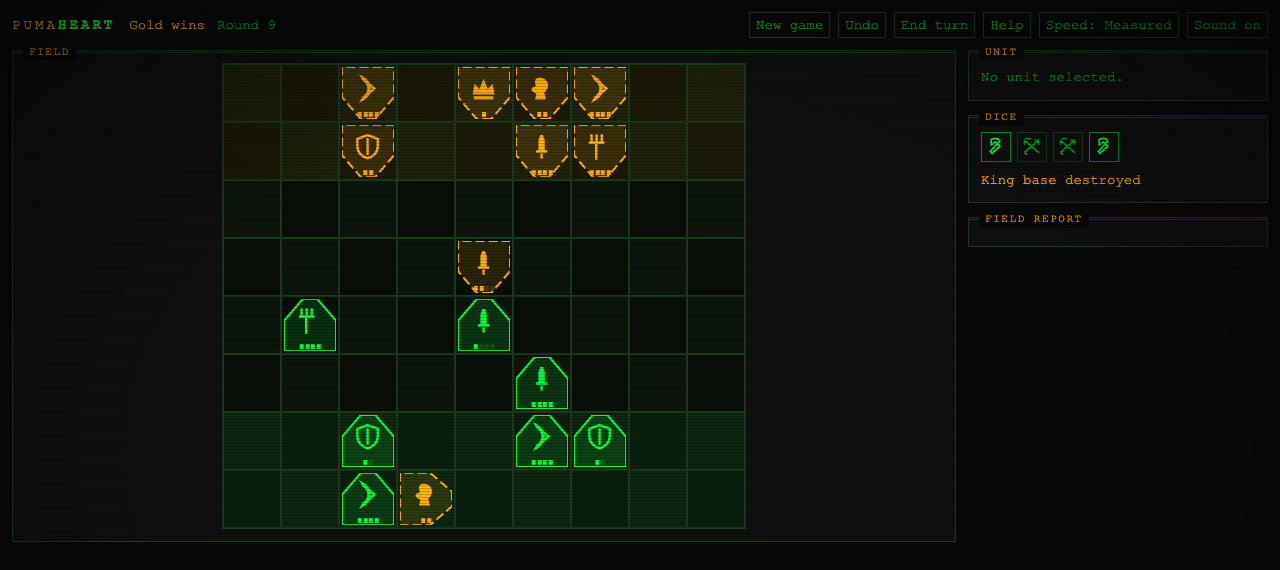
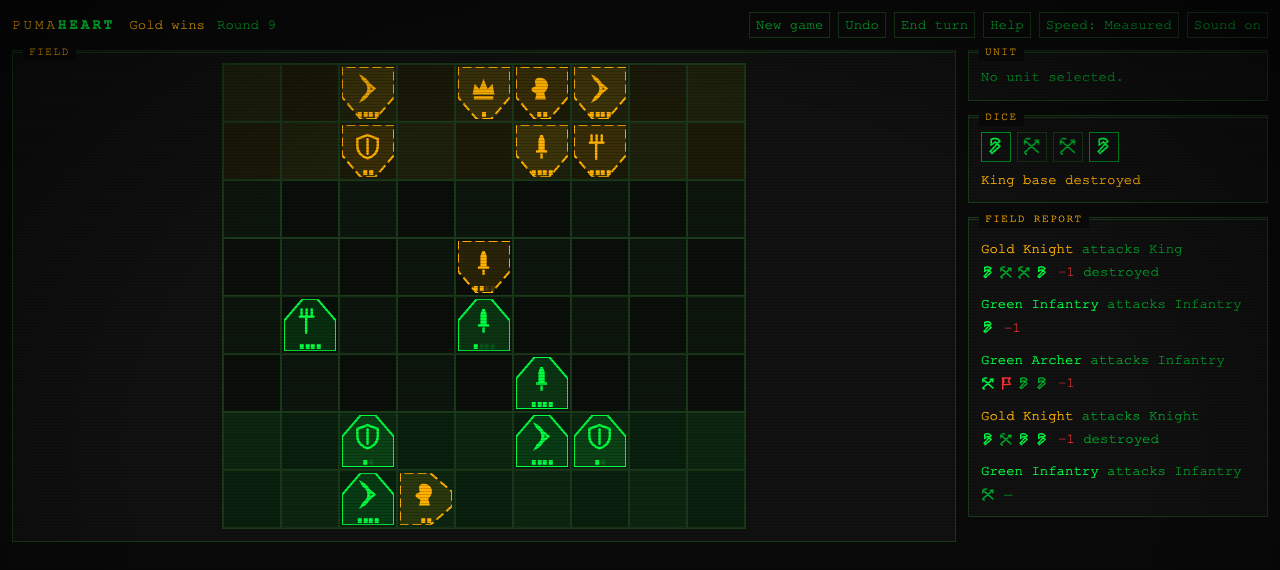
Field report: show the roll as dice, not as a list of words
An attack was the one log entry that was not a sentence -- it was a
roll -- and it was being written out as one: "arrows, battle-axe,
battle-axe, PANIC — 2 lost", both armies coloured, in a column about
thirty characters wide.

It is now the roll itself:

  Gold Knight attacks Infantry
  [axe][arrow][axe][axe]  -2 destroyed

Only the attacker carries its army. Naming the defender's side as well
was redundant twice over -- there are two armies, and the attacker's
colour already says which one is swinging. Scoring faces go green and
PANIC goes red, the same way they already do in the dice tray, so the
summary can be traced back to the dice that produced it. Red on the
count because red is the token for harm and nothing else.

The entry is stored as data rather than as marked-up text, so G.log
stays pure JSON and keeps round-tripping; it carries the sentence too,
because a screen reader cannot read a glyph, and that spoken form
still names both armies since there is no colour to tell them apart.

Two things fixed on the way:

`removed` is the uncapped floor(hits / htk), and the rules want it that
way -- four axes on a King is two hits' worth whether or not there are
two figures to take them -- but reporting it as "2 lost" off a
one-figure base was a lie that a bare "-2" makes starker. Reports now
cap at what was standing when the dice were thrown, recorded as
res.defFigs. The rules engine is untouched.

The shot harness applies actions directly, so nothing recorded the
[…]

diff --git a/index.html b/index.html
@@ -146,6 +146,20 @@ body::after {
 
 #log-list { list-style: none; margin: 0; padding: 0; max-height: 30vh; overflow-y: auto; }
 #log-list li { padding: 2px 0; border-bottom: 1px solid var(--panel-2); color: var(--text-dim); }
+/* An attack is two lines: who swung at what, then the roll and what it cost.
+   Dice at log scale carry no border -- four boxed glyphs in a narrow column
+   read as a row of buttons, and the field report is a record, not a control. */
+#log-list li.log-attack { padding: 5px 0 6px; }
+.log-who, .log-roll { margin: 0; }
+.log-roll { display: flex; align-items: center; gap: 3px; margin-top: 3px; }
+.logdie { width: 15px; height: 15px; flex: none; color: var(--text-dim); }
+.logdie svg { width: 100%; height: 100%; display: block; }
+.logdie svg path { fill: none; stroke: currentColor; stroke-width: 2.4; stroke-linecap: round; }
+.logdie.f-axe.scores, .logdie.f-arrow.scores { color: var(--green); }
+.logdie.f-panic { color: var(--red); }
+.log-sum { margin-left: 5px; white-space: nowrap; }
+.sum-bad { color: var(--red); }
+.sum-note { color: var(--text-dim); }
 
 /* ============================================================
    BOARD & UNITS
@@ -1041,6 +1055,12 @@ function needsLastManDuel(atk, def) {
 function resolveAttack(P, grid, atk, def) {
   const ad = defOf(atk);
   const res = { atkUid: atk.uid, defUid: def.uid, faces: [], hits: 0, removed: 0,
+                /* What was standing on the base when the dice were thrown.
+                   `removed` is the uncapped floor(hits / htk) and the rules
+                   want it that way -- four axes on a King is two hits' worth
+                   whether or not there are two figures to take them -- but a
+                   report saying "2 lost" off a one-figure base is a lie. */
+                defFigs: def.figs,
                 panicSteps: 0, duel: false, victimRetreat: 0, killed: false,
                 /* An ordered record of the cascade, so the presentation can
                    replay it as a chain rather than a single jump. Pure data:
@@ -1534,6 +1554,7 @@ function animate(events) {
   if (UI.reducedMotion) {
     for (const e of events) {
       if (e.type === "log") log(e.text);
+      else if (e.type === "logAttack") logAttack(e.res, e.say);
       else if (e.type === "sfx") sfx(e.name);
     }
     return NEXT;
@@ -1966,10 +1987,10 @@ function renderCurtain() {
   </div>`;
 }
 
-/* "Green Archer attacks Gold Infantry" reads far faster when the two are
-   coloured. Built from the army and unit names rather than hard-coded, so it
-   follows a rename, and applied at RENDER time -- G.log stays plain strings
-   and keeps round-tripping through JSON. */
+/* "Green Archer advances to e4" reads far faster when the army is coloured.
+   Built from the army and unit names rather than hard-coded, so it follows a
+   rename, and applied at RENDER time -- a log entry stays plain data and
+   keeps round-tripping through JSON. */
 function colourNames(escaped) {
   const armies = G.players.map(p => p.name).join("|");
   /* Longest unit name first, so "Heavy Infantry" wins over "Infantry". */
@@ -1982,15 +2003,75 @@ function colourNames(escaped) {
   });
 }
 
+/* An attack is the one entry that is not a sentence. It is a roll, and a
+   roll reads far faster as four faces than as the words "arrows, battle-axe,
+   battle-axe, PANIC" -- so it is stored as data and drawn as dice.
+
+   Only the attacker carries its army. Naming the defender's side as well was
+   redundant twice over: there are two armies, and the attacker's colour
+   already says which one is swinging. */
+function attackEntryHTML(e) {
+  const atk = byUid(G, e.atk), def = byUid(G, e.def);
+  if (!atk || !def) return esc(e.say || "");
+  /* Scoring faces go green here exactly as they do in the dice tray, so the
+     summary can be traced back to the dice that produced it. A total panic
+     scores nothing, whatever the other faces say. */
+  const hitFace = defOf(atk).hitFace;
+  const dice = e.faces.map(f => {
+    const scores = !e.panic &&
+      (hitFace === null ? (f === AXE || f === ARROW) : f === hitFace);
+    return `<span class="logdie ${DIE_CLASS[f]}${scores ? " scores" : ""}"
+      role="img" aria-label="${DIE_NAME[f]}">
+      <svg viewBox="0 0 24 24" aria-hidden="true"><path d="${DIE_GLYPH[f]}"/></svg></span>`;
+  }).join("");
+
+  /* Red is the token for harm and nothing else, so it marks the figures that
+     came off -- whichever side they came off. A Peasant can lose figures for
+     its target AND panic itself on the same roll, which is why this is built
+     from parts rather than picked from a list. */
+  const bits = [];
+  if (e.lost) bits.push(`<span class="sum-bad">\u2212${e.lost}</span>`);
+  if (e.killed) bits.push(`<span class="sum-note">destroyed</span>`);
+  if (e.panic) bits.push(`<span class="sum-bad">PANIC</span>`);
+  if (!bits.length) bits.push(`<span class="sum-note">\u2014</span>`);
+
+  return `<p class="log-who"><span class="side s${atk.side}">${esc(G.players[atk.side].name)} ${esc(defOf(atk).name)}</span>`
+       + ` <span class="dim">attacks</span> ${esc(defOf(def).name)}</p>`
+       + `<p class="log-roll">${dice}<span class="log-sum" role="img"`
+       + ` aria-label="${esc(summaryAria(e))}">${bits.join(" ")}</span></p>`;
+}
+
+function summaryAria(e) {
+  const out = [];
+  if (e.lost) out.push(`${e.lost} ${e.lost === 1 ? "figure" : "figures"} lost`);
+  if (e.killed) out.push("base destroyed");
+  if (e.panic) out.push("PANIC");
+  return out.length ? out.join(", ") : "no effect";
+}
+
 function renderLog() {
   document.getElementById("log-list").innerHTML =
-    G.log.slice(-40).reverse().map(l => `<li>${colourNames(esc(l))}</li>`).join("");
+    G.log.slice(-40).reverse().map(l =>
+      typeof l === "string" ? `<li>${colourNames(esc(l))}</li>`
+                            : `<li class="log-attack">${attackEntryHTML(l)}</li>`).join("");
 }
 
 function log(msg) {
   G.log.push(msg);
   if (G.log.length > 200) G.log.shift();
   announce(msg);
+}
+
+/* The structured entry. `say` is the same line in words, for the screen
+   reader and for any entry whose units have since left G. */
+function logAttack(res, say) {
+  G.log.push({
+    atk: res.atkUid, def: res.defUid, faces: res.faces.slice(),
+    lost: figuresLost(res), killed: !!res.killed,
+    panic: !!res.panicSteps, say: say,
+  });
+  if (G.log.length > 200) G.log.shift();
+  announce(say);
 }
 
 /* Screen-reader commentary only. Action counts and cursor feedback matter
@@ -2059,15 +2140,23 @@ function renderAs(snapshot) {
   try { updateAll(); } finally { G = live; }
 }
 
-function attackEvents(res) {
+/* The attack in words. The field report draws dice instead, but a screen
+   reader cannot read a glyph, so this is what gets announced -- and it names
+   BOTH armies, because without colour there is nothing else to tell them
+   apart. */
+function attackSentence(res) {
   const atk = byUid(G, res.atkUid), def = byUid(G, res.defUid);
   const parts = [`${G.players[atk.side].name} ${defOf(atk).name} attacks`,
                  `${G.players[def.side].name} ${defOf(def).name}`,
                  `\u2014 ${res.faces.map(f => DIE_NAME[f]).join(", ")}`];
   if (res.panicSteps && !defOf(atk).panicPerDie) parts.push("\u2014 PANIC!");
-  else if (res.removed) parts.push(`\u2014 ${res.removed} lost`);
+  else if (res.removed) parts.push(`\u2014 ${figuresLost(res)} lost`);
   else parts.push("\u2014 no effect");
+  return parts.join(" ");
+}
 
+function attackEvents(res) {
+  const atk = byUid(G, res.atkUid), def = byUid(G, res.defUid);
   /* The cut-in runs FIRST, while the board still shows the position as it was
      when the dice were thrown. Only once the outcome has been read does the
      board re-render and take the casualty off. */
@@ -2081,7 +2170,7 @@ function attackEvents(res) {
     { type: "combat", res },
     { type: "wait", delay: SETTLE_MS },
     { type: "render" },
-    { type: "log", text: parts.join(" ") });
+    { type: "logAttack", res: res, say: attackSentence(res) });
   if (res.removed) ev.push({ type: "sfx", name: res.killed ? "kill" : "hit" });
   if (res.retreats && res.retreats.length) {
     ev.push({ type: "sfx", name: "panic" });
@@ -2107,6 +2196,7 @@ function processEventQueue() {
     if (!q.length) { UI.animating = false; return; }
     const e = q.shift();
     if (e.type === "log") { log(e.text); nextEvent(); return; }
+    if (e.type === "logAttack") { logAttack(e.res, e.say); nextEvent(); return; }
     if (e.type === "sfx") { sfx(e.name); nextEvent(); return; }
     if (e.type === "combat") { showCombat(e.res, nextEvent); return; }
     /* The one render that is allowed to take the casualty off, and the only
@@ -3055,7 +3145,7 @@ function renderTray() {
   }).join("");
   const verdict = d.panicSteps && !defOf(atk).panicPerDie ? "PANIC — the unit breaks"
     : d.killed ? `${esc(defOf(def).name)} base destroyed`
-    : d.removed ? `${d.removed} ${d.removed === 1 ? "figure" : "figures"} lost`
+    : d.removed ? `${figuresLost(d)} ${figuresLost(d) === 1 ? "figure" : "figures"} lost`
     : "no effect";
   const duelNote = d.duel ? " <span class='dim'>(single figure, two hits needed)</span>" : "";
   el.innerHTML = `<div class="dice-row">${faces}</div>
@@ -3476,6 +3566,9 @@ function botStep(side, skill) {
     const g2 = buildGrid(G);
     if (!legalActions(G, g2, G.turn).some(x => sameAction(x, a))) break;
     applyAction(G, a);
+    /* The shot harness bypasses doAction, so nothing else would record the
+       fighting -- which left #shot=midgame with an empty field report. */
+    if (a.kind === "attack" && G.dice) logAttack(G.dice, attackSentence(G.dice));
     const v = checkVictory(G);
     if (v) { G.result = v; G.gameOver = true; return true; }
   }
@@ -3765,12 +3858,20 @@ function renderDeployBar() {
    is what the code did until now, removed the casualty before
    showing the roll that killed it.
    ============================================================ */
+/* Never more than were there to lose. Old saves predate defFigs, so the
+   uncapped count stands in rather than reporting zero. */
+function figuresLost(res) {
+  if (!res.removed) return 0;
+  return res.defFigs == null ? res.removed : Math.min(res.removed, res.defFigs);
+}
+
 function combatOutcome(res) {
   const atk = byUid(G, res.atkUid), def = byUid(G, res.defUid);
   const ad = defOf(atk), dd = defOf(def);
   if (res.panicSteps && !ad.panicPerDie) return { text: "PANIC — the unit breaks", tone: "bad" };
   if (res.killed) return { text: `${dd.name} base destroyed`, tone: "kill" };
-  if (res.removed) return { text: `${res.removed} ${res.removed === 1 ? "figure" : "figures"} lost`, tone: "hit" };
+  const lost = figuresLost(res);
+  if (lost) return { text: `${lost} ${lost === 1 ? "figure" : "figures"} lost`, tone: "hit" };
   return { text: "No effect", tone: "none" };
 }
 

diff --git a/README.md b/README.md
@@ -39,7 +39,8 @@ full view: the dice tumble and settle one at a time, and the outcome is withheld
 one stops, and the board keeps the defeated base until the card has cleared, so you watch it go
 rather than find it gone. When the AI attacks, the board calls the shot first — the attacker
 rings in its own colour, its reach washes in, and the base about to be hit pulses red — so the
-dice never arrive without saying who threw them.
+dice never arrive without saying who threw them. The field report keeps each attack as its four
+faces and what the roll cost.
 
 **PANIC is what makes the game.** If every die comes up PANIC the unit turns about and retreats
 a square, shoving whoever is behind it into panicking too. A retreat blocked by the board edge,
